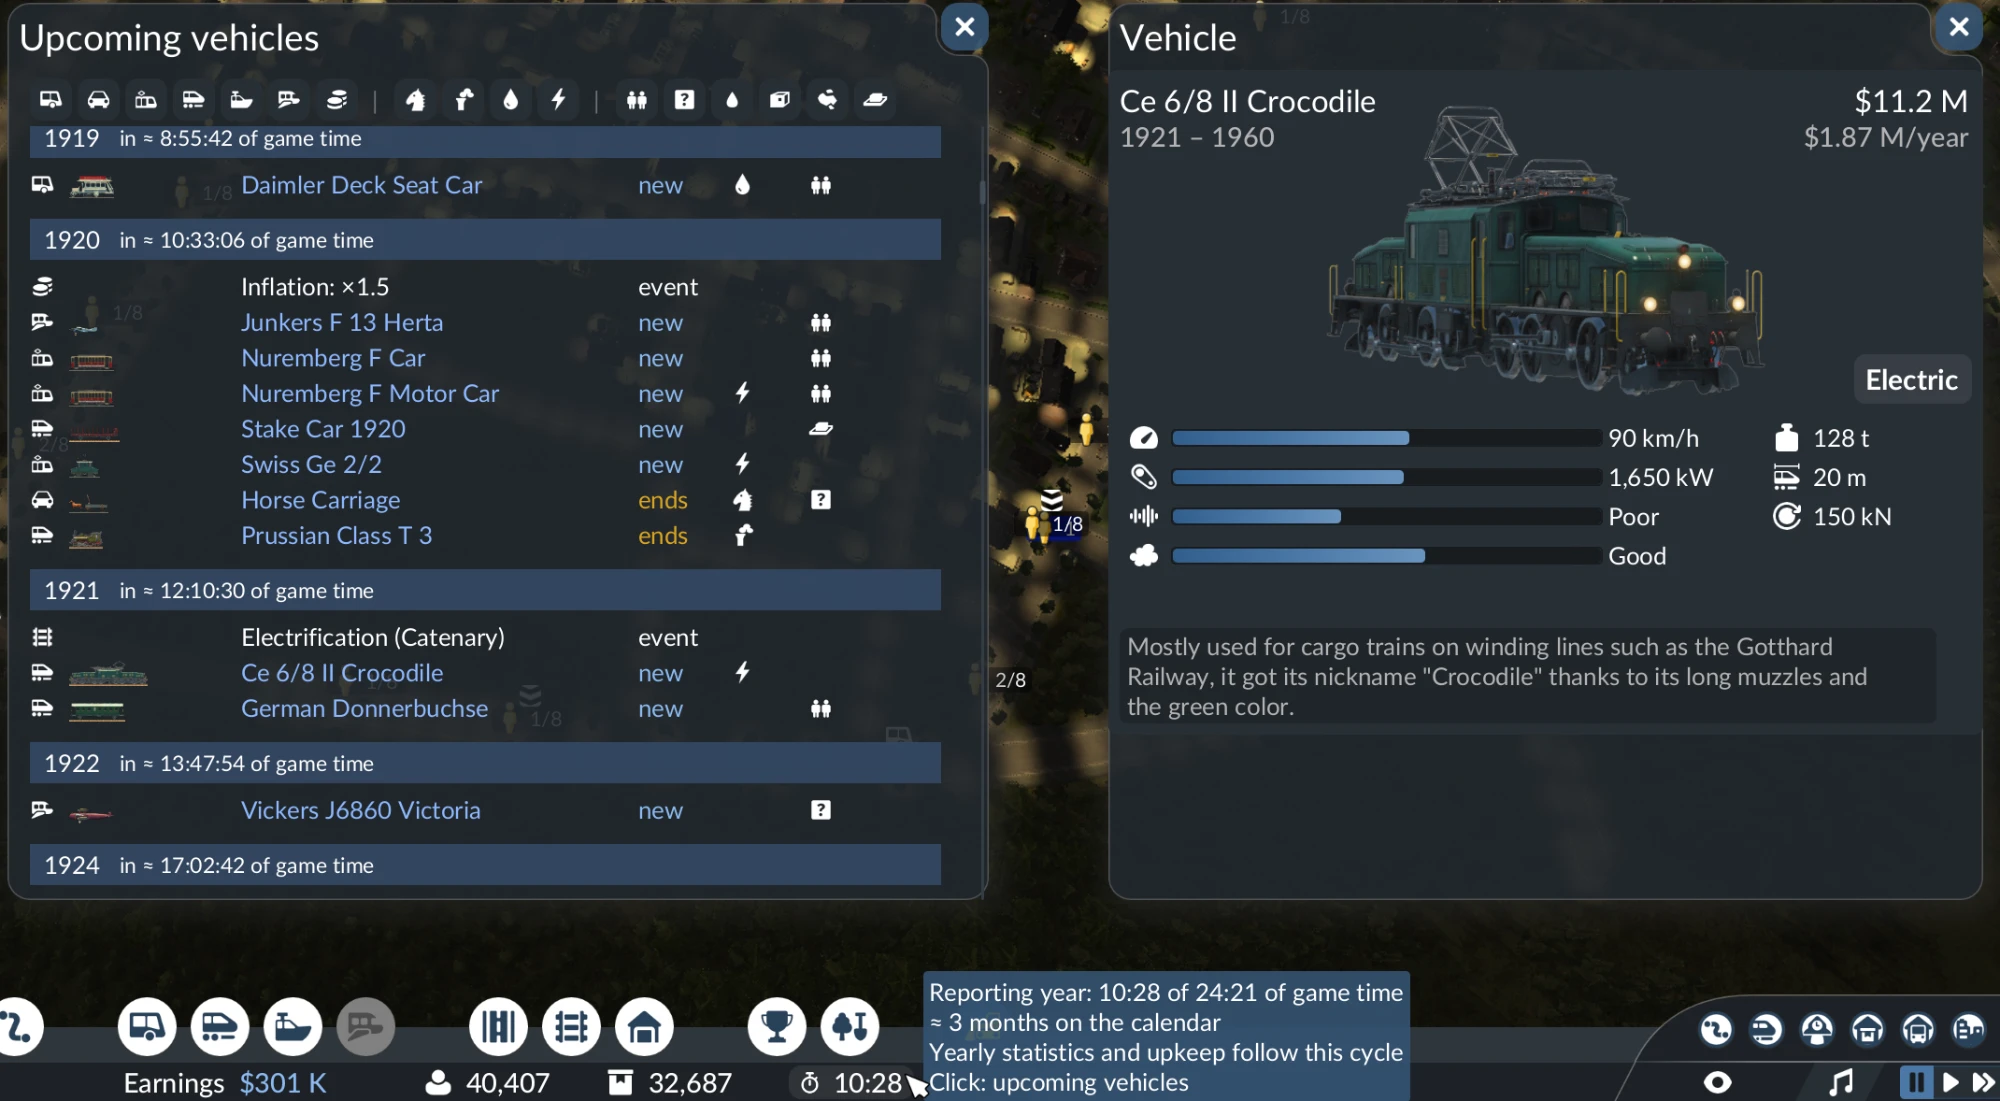
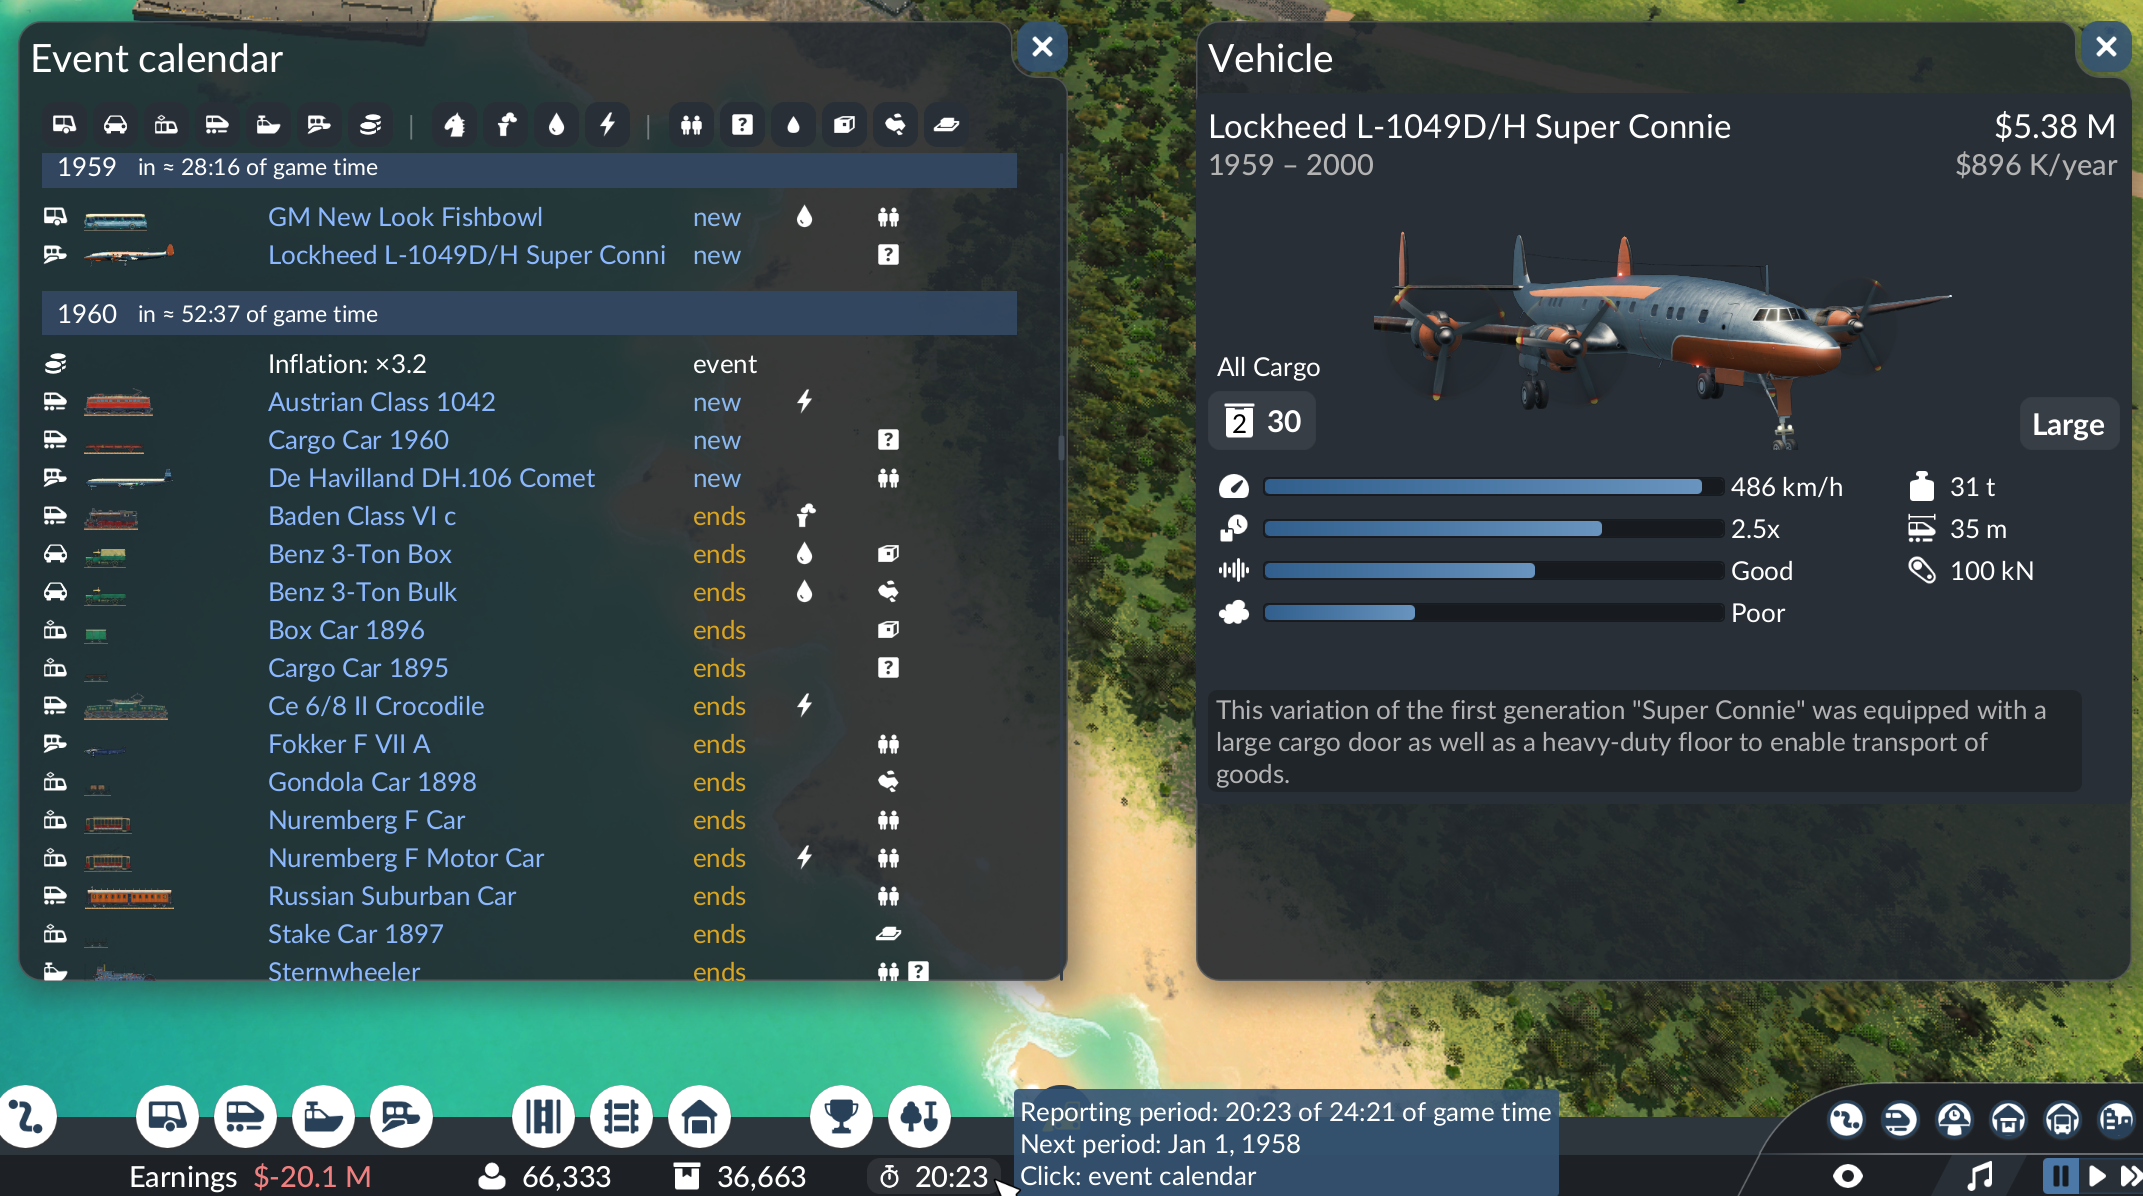
Update the screenshot for 1.0.1

diff --git a/README.md b/README.md
@@ -4,7 +4,7 @@ A Transport Fever 3 mod: a reporting-period clock in the bottom bar and a calend
 
 ![Event Calendar & Year Clock](mod/nj_event_calendar_1/_metadata/0.png)
 
-![The clock in the bottom bar, the event calendar and the vehicle details](media/screenshot_calendar.png)
+![The clock tooltip in the bottom bar, the event calendar and the vehicle details](media/screenshot_calendar.png)
 
 Author: [rushked](https://mod.io/u/rushked/). Available in the game's mod browser and on [mod.io](https://mod.io/g/transportfever3/m/nj-event-calendar-year-clock).
 
